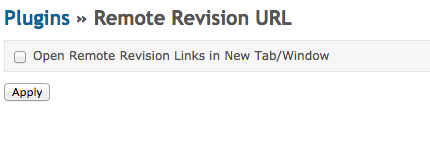
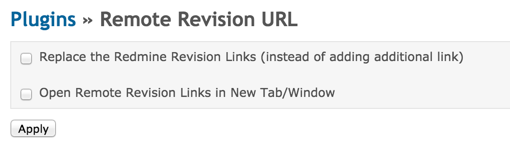
Adding ability to customize text link.  This fixes issue #1.

diff --git a/lib/redmine_remote_revision_url/application_helper_patch.rb b/lib/redmine_remote_revision_url/application_helper_patch.rb
@@ -3,22 +3,41 @@
 module ApplicationHelper
   alias_method :original_link_to_revision, :link_to_revision
   def link_to_revision(revision, repository, options = {})
-    original_link_to_revision(revision, repository, options) +
-      link_to_web_revision(revision)
+    repository = safe_repository(repository)
+    if plugin_redmine_remote_revision_url('replace_revision_link')
+      replace_link_to_web_revision(revision, repository, options)
+    else
+      combine_link_to_web_revision(revision, repository, options)
+    end
   end
 
-  # Generates a link to a web revision
-  def link_to_web_revision(revision)
-    url = link_to_web_revision_url(revision)
-    return unless url.present?
-    text = url.split('/').reject(&:empty?)[1]
-    '&nbsp;('.html_safe +
-      link_to(h(text), url, { title: l(text), target: link_to_web_revision_target }) +
+  private
+
+  def replace_link_to_web_revision(revision, repository, options = {})
+    options[:text] ||= format_revision(revision)
+    link_to_web_revision(revision, repository, options)
+  end
+
+  def combine_link_to_web_revision(revision, repository, options = {})
+    original_link_to_revision(revision, repository, options) +
+      '&nbsp;('.html_safe +
+      link_to_web_revision(revision, repository)  +
       ')'
   end
 
-  def link_to_web_revision_url(revision)
-    repository = revision.repository.is_a?(Project) ? revision.repository.repository : revision.repository
+  def safe_repository(repository)
+    repository.is_a?(Project) ? repository.repository : repository
+  end
+
+  # Generates a link to a web revision
+  def link_to_web_revision(revision, repository, options = {})
+    url = link_for_web_revision_url(revision, repository)
+    return unless url.present?
+    text = options.delete(:text) || repository.extra_remote_revision_text
+    link_to(h(text), url, { title: l(text), target: link_to_web_revision_target })
+  end
+
+  def link_for_web_revision_url(revision, repository)
     rev = revision.respond_to?(:identifier) ? revision.identifier : revision
     repository.extra_remote_revision_url(rev)
   end

diff --git a/lib/redmine_remote_revision_url/repositories_helper_patch.rb b/lib/redmine_remote_revision_url/repositories_helper_patch.rb
@@ -3,15 +3,10 @@
 RepositoriesHelper.class_eval do
   alias_method :original_repository_field_tags, :repository_field_tags
   def repository_field_tags(form, repository)
-    original_repository_field_tags(form, repository) +
-      extra_remote_revision_url_tag(form)
-  end
-
-  def extra_remote_revision_url_tag(form)
-    content_tag('p', form.text_field('extra_remote_revision_url', size: 60) +
-                 '<br />'.html_safe +
-                 content_tag(:em, l(:field_extra_remote_revision_url_info), class: 'info')
-    )
+    html = original_repository_field_tags(form, repository)
+    html += extra_remote_revision_url_tag(form)
+    html += extra_remote_revision_text_tag(form) unless plugin_redmine_remote_revision_url('replace_revision_link')
+    html
   end
 
   def linkify_id(html)
@@ -19,4 +14,21 @@ RepositoriesHelper.class_eval do
     revision_link = @rev.html_safe + link_to_web_revision(@changeset)
     html.sub(content_tag(:td, @rev), content_tag(:td, revision_link)).html_safe
   end
+
+  private
+
+  def extra_remote_revision_url_tag(form)
+    content_tag('p', form.text_field('extra_remote_revision_url', size: 60) +
+                 '<br />'.html_safe +
+                 content_tag(:em, l(:field_extra_remote_revision_url_info).html_safe, class: 'info')
+    )
+  end
+
+  def extra_remote_revision_text_tag(form)
+    content_tag('p', form.text_field('extra_remote_revision_text', size: 30) +
+                     '<br />'.html_safe +
+                     content_tag(:em, l(:field_extra_remote_revision_text_info), class: 'info')
+    )
+  end
+
 end

diff --git a/init.rb b/init.rb
@@ -10,7 +10,7 @@ Redmine::Plugin.register :redmine_remote_revision_url do
   name 'Remote Revision URL'
   author 'Thomas Leishman'
   description 'The Redmine Remote Revision URL plugin adds a revision link to a remote website to see more details on a commit/revision.'
-  version '0.1.0'
+  version '0.2.0'
   url 'https://github.com/tleish/redmine_remote_revision_url'
   author_url 'https://github.com/tleish'
   settings :default => { display_under_single_revision: true, display_under_associated_revisions: false } , :partial => 'redmine_remote_revision_url/settings'

diff --git a/lib/redmine_remote_revision_url/repository_patch.rb b/lib/redmine_remote_revision_url/repository_patch.rb
@@ -5,4 +5,16 @@ Repository.class_eval do
     url.sub!(':revision', revision) if revision.present?
     url
   end
+
+  def extra_remote_revision_text
+    info = extra_info || {}
+    text = info['extra_remote_revision_text']
+    text.present? ? text : extra_remote_revision_default_text
+  end
+
+  private
+
+  def extra_remote_revision_default_text
+    extra_remote_revision_url.split('/').reject(&:empty?)[1]
+  end
 end

diff --git a/README.md b/README.md
@@ -2,7 +2,8 @@
 
 ## Summary
 
-The Redmine Remote Revision URL plugin adds a revision link to a remote website to see more details on a commit/revision.
+The Redmine Remote Revision URL plugin adds a revision link to a remote website to see more details on a commit/revision. 
+This allows a user to quickly jump to github, gitlab, bitbucket, a code review website, etc and extend the current functionality of redmine revisions.
                  
 ![Screenshot](https://raw.githubusercontent.com/tleish/redmine_remote_revision_url/master/screenshot_associated_revisions.png)
 
@@ -24,9 +25,11 @@ Insert *:revision* in the URL where the revision identifier should appear (e.g. 
 
 ![Screenshot](https://raw.githubusercontent.com/tleish/redmine_remote_revision_url/master/screenshot_repository_settings.png)
 
+Optionally, you can also add Custom link text.  If left blank, defaults to domain name in Remote Revision URL.
+
 
 ## Global Plugin Settings
 
-Globally configure remote revision url links to open in a new tab/window (default is current window).
+Globally configure remote revision url links to replace exising link or to open in a new tab/window (default is current window).
 
 ![Screenshot](https://raw.githubusercontent.com/tleish/redmine_remote_revision_url/master/screenshot_plugin_settings.png)
